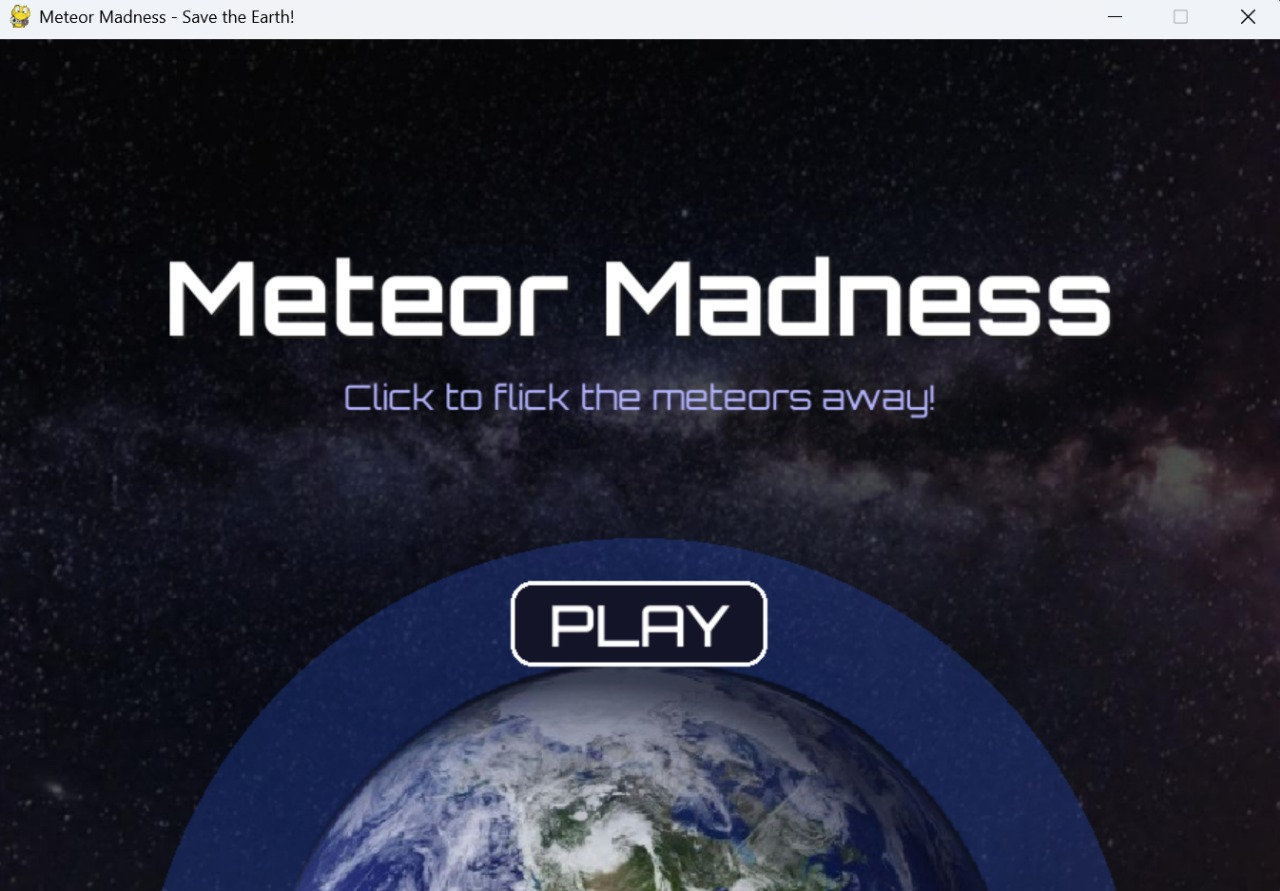
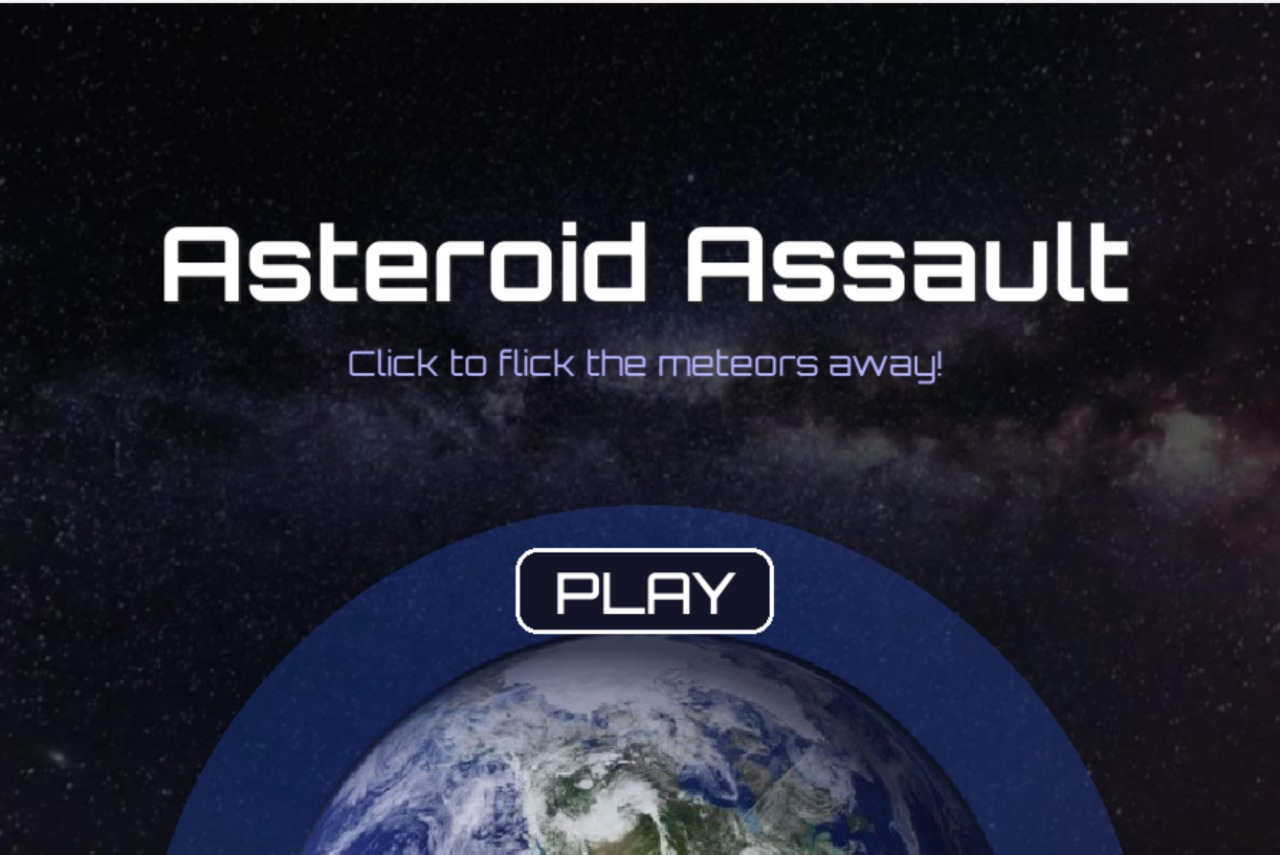
Add files via upload

diff --git a/main_menu.py b/main_menu.py
@@ -8,7 +8,7 @@ import base64
 BASE_DIR = os.path.dirname(__file__)
 GAME_MODE_PATH = os.path.join(BASE_DIR, "game_mode.py")
 EXPLORATION_MODE_PATH = os.path.join(BASE_DIR, "exploration_mode.py")
-BG_IMAGE_PATH = os.path.join(BASE_DIR, "assets", "starry_background.jpg")
+BG_IMAGE_PATH = os.path.join(BASE_DIR, "assets","images", "starry_background.jpg")
 
 # --- Colors ---
 NEON_BLUE_ACCENT_COLOR = "#00BFFF"
@@ -33,7 +33,7 @@ def get_base64_image(image_path):
 bg_base64 = get_base64_image(BG_IMAGE_PATH)
 
 # --- Streamlit Page Config ---
-st.set_page_config(page_title="Meteor Madness Hub", layout="wide")
+st.set_page_config(page_title="Crash \'n\' Course ", layout="wide")
 
 # --- CSS ---
 # --- IMPORTANT CHANGE 2: Conditionally apply CSS if image was loaded ---
@@ -98,7 +98,7 @@ if bg_base64:
             text-align: center;
             margin-bottom: 40px;
             display: flex;
-            justify-content: center; /* This is the key centering line for its contents */
+            justify-content: center;
         }}
 
         /* Button style */
@@ -139,20 +139,12 @@ else:
 
 
 # --- Title ---
-st.markdown('<div class="title-box">🌌 Meteor Madness</div>', unsafe_allow_html=True)
+st.markdown('<div class="title-box">🌌 CRASH \'n\' COURSE </div>', unsafe_allow_html=True)
 
 # --- Boxes in two columns ---
 col1, col2 = st.columns(2)
 
-# --- Function to simulate launch ---
-def launch_game(path, is_streamlit):
-    """Placeholder function for launch logic to prevent errors in an environment without file access."""
-    if is_streamlit:
-        st.info(f"Simulating launch of Streamlit app: {path}")
-        # Original logic: subprocess.Popen([sys.executable, "-m", "streamlit", "run", path])
-    else:
-        st.info(f"Simulating launch of Python script: {path}")
-        # Original logic: subprocess.Popen([sys.executable, path])
+
 
 # --- Column 1: Game Mode ---
 with col1:
@@ -177,9 +169,7 @@ with col1:
         # st.button is now inside the center column
         if st.button("🚀 Launch Game Mode", key="game", use_container_width=True):
             try:
-                launch_game(GAME_MODE_PATH, is_streamlit=False)
                 subprocess.Popen([sys.executable, GAME_MODE_PATH])
-                st.success("Game Mode launched!")
             except Exception as e:
                 st.error(f"Failed to launch: {e}")
 
@@ -202,9 +192,7 @@ with col2:
         # st.button is now inside the center column
         if st.button("🔭 Launch Exploration Mode", key="explore", use_container_width=True):
             try:
-                launch_game(EXPLORATION_MODE_PATH, is_streamlit=False)
                 subprocess.Popen([sys.executable, EXPLORATION_MODE_PATH])
-                st.success("Exploration Mode launched!")
             except Exception as e:
                 st.error(f"Failed to launch: {e}")
 

diff --git a/Game_Mode.py b/Game_Mode.py
@@ -7,8 +7,8 @@ import os
 # --- Step 1: Setup Base Directory for Assets ---
 BASE_DIR = os.path.dirname(__file__)
 ASSETS_DIR = os.path.join(BASE_DIR, "assets")
-FONTS_DIR = os.path.join(ASSETS_DIR, "fonts")
 IMAGES_DIR = os.path.join(ASSETS_DIR, "images")
+FONTS_DIR = os.path.join(ASSETS_DIR, "fonts")
 
 # Initialize pygame
 pygame.init()
@@ -16,7 +16,7 @@ pygame.init()
 # Screen settings
 WIDTH, HEIGHT = 900, 600
 screen = pygame.display.set_mode((WIDTH, HEIGHT))
-pygame.display.set_caption("Meteor Madness - Save the Earth!")
+pygame.display.set_caption("Asteroid Assault - Save the Earth!")
 
 # Colors
 BLACK = (0, 0, 0)
@@ -95,7 +95,7 @@ def start_screen():
         screen.blit(earth_display, earth_rect)
 
         # Title
-        title_text = "Meteor Madness"
+        title_text = "Asteroid Assault"
         title_shadow = title_font.render(title_text, True, (30, 30, 30))
         title = title_font.render(title_text, True, WHITE)
         shadow_rect = title_shadow.get_rect(center=(WIDTH // 2 + 2, HEIGHT // 2 - 118))

diff --git a/Exploration_Mode.py b/Exploration_Mode.py
@@ -1,6 +1,7 @@
 import pygame
 import sys
 import math
+import requests
 import io
 import time
 import os

diff --git a/README.md b/README.md
@@ -162,6 +162,8 @@ Make sure you open the *inner* folder — the one that contains files like:
 `main_menu.py`, `requirements.txt`, and the `assets` folder.
 
 
+
+
 #### **Option B: Use Git (If Installed)**
 
 If you have Git installed, open a terminal / command prompt:
@@ -172,17 +174,7 @@ cd Meteor_Madness
 ```
 
 
-### **Step 2: Create a virtual environment (optional but recommended)**
-
-```bash
-python -m venv venv
-# On Windows:
-venv\Scripts\activate
-# On macOS/Linux:
-source venv/bin/activate
-```
-
-### **Step 3: Install Required Packages**
+### **Step 2: Install Required Packages**
 
 1. Open Command Prompt
 2. Change directory to the folder with the requirements.txt file
@@ -191,7 +183,7 @@ source venv/bin/activate
 pip install -r requirements.txt
 ```
 
-### **Step 4: Run the Streamlit main menu:**
+### **Step 3: Run the Streamlit main menu:**
 
 Run this command in the same terminal:
 
